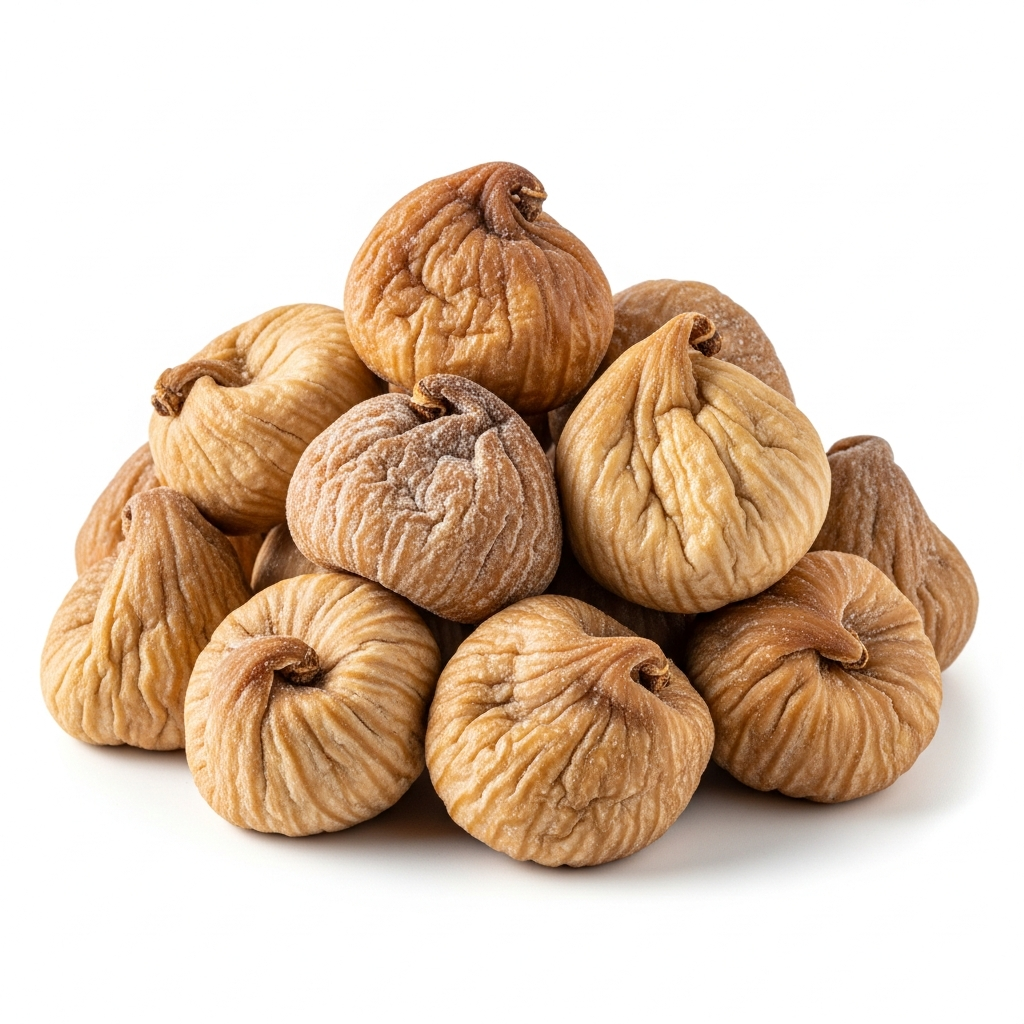
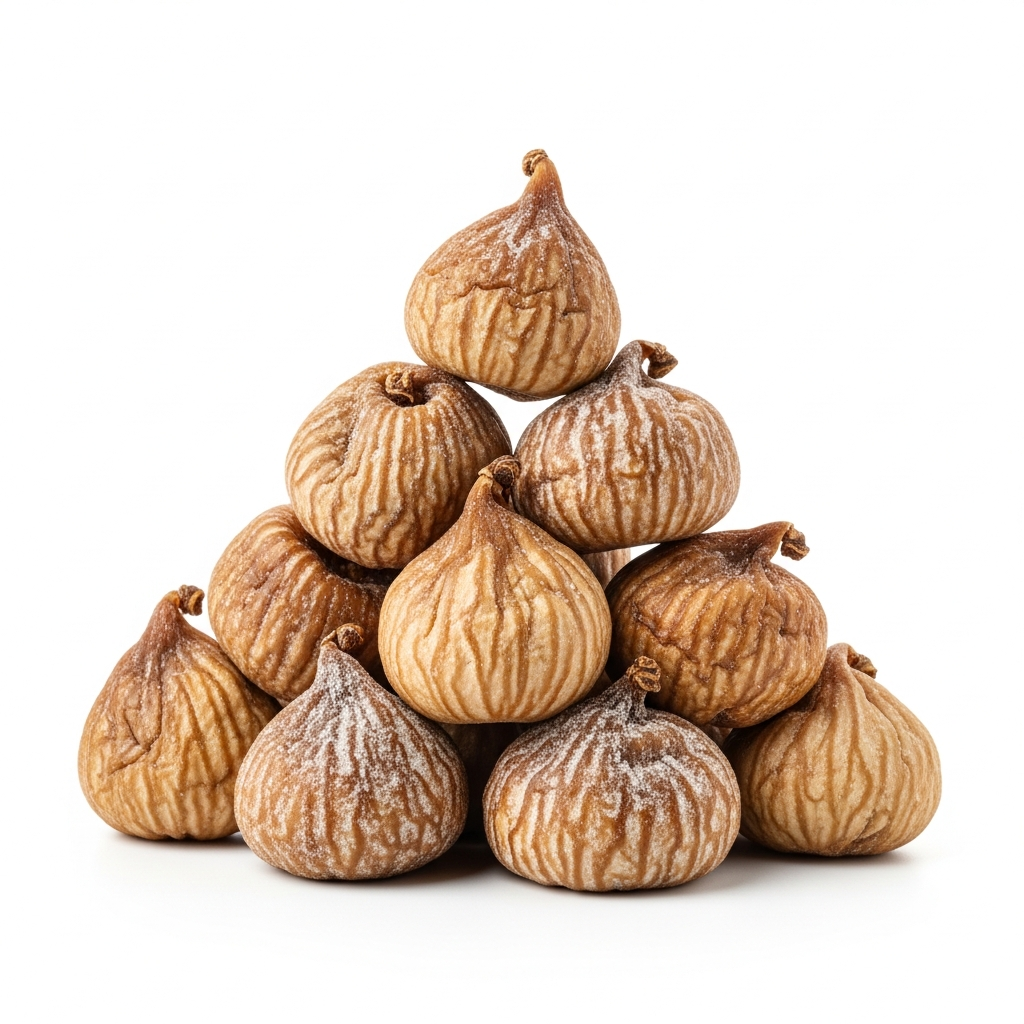
Update wine and dried fruit images to match user preferences
Update the image for red wine to include a glass and change the dried figs image to a pile style.

Replit-Commit-Author: Agent
Replit-Commit-Session-Id: c32607bc-baea-4178-af74-aeddb6142ad0
Replit-Commit-Checkpoint-Type: full_checkpoint
Replit-Commit-Event-Id: 8fb6db46-43da-4bc5-838b-fff11c4339e9
Replit-Commit-Screenshot-Url: https://storage.googleapis.com/screenshot-production-us-central1/ba6913b2-db83-404e-b1bc-6609f1fa54d4/c32607bc-baea-4178-af74-aeddb6142ad0/2wsRqpi

diff --git a/client/src/components/ProductsSection.tsx b/client/src/components/ProductsSection.tsx
@@ -28,7 +28,7 @@ import pomegranateJuiceImage from '@assets/generated_images/pomegranate_juice_pr
 import raisinsImage from '@assets/generated_images/raisins_product_photo.png';
 import whiteWineImage from '@assets/generated_images/premium_white_wine.png';
 import roseWineImage from '@assets/generated_images/premium_rose_wine.png';
-import redWineImage from '@assets/generated_images/premium_red_wine_bottle.png';
+import redWineImage from '@assets/generated_images/red_wine_bottle_and_glass.png';
 import halvaImage from '@assets/generated_images/traditional_halva_sweet.png';
 import honeyImage from '@assets/generated_images/pure_golden_honey.png';
 import pepperSpreadsImage from '@assets/generated_images/pepper_spread_product.png';
@@ -42,7 +42,7 @@ import yogurtImage from '@assets/generated_images/greek_yogurt_large_container.p
 import longPeppersImage from '@assets/generated_images/long_macedonian_peppers.png';
 import florinaPeppersInBrineImage from '@assets/generated_images/florina_peppers_in_brine.png';
 import redPeppersInOilImage from '@assets/generated_images/red_peppers_in_oil.png';
-import driedFigsImage from '@assets/generated_images/small_brown_dried_figs.png';
+import driedFigsImage from '@assets/generated_images/dried_figs_pile.png';
 import driedFruitsImage from '@assets/generated_images/mixed_dried_fruits_nuts.png';
 
 type ProductKey = 'strawberries' | 'oranges' | 'mandarins' | 'lemons' | 'grapes' | 'apples' | 'peaches' | 'watermelon' | 'kiwi' | 'apricots' | 'nectarines' | 'bananas' | 'tomatoes' | 'cucumbers' | 'peppers' | 'lettuce' | 'carrots' | 'broccoli' | 'cabbage' | 'oliveOil' | 'olives' | 'pomegranateJuice' | 'raisins' | 'whiteWine' | 'roseWine' | 'redWine' | 'halva' | 'honey' | 'pepperSpreads' | 'jams' | 'tomatoSauces' | 'pickledBeets' | 'pickledCucumbers' | 'capers' | 'fetaCheese' | 'yogurt' | 'longPeppers' | 'florinaPeppersInBrine' | 'redPeppersInOil' | 'driedFigs' | 'driedFruits';
